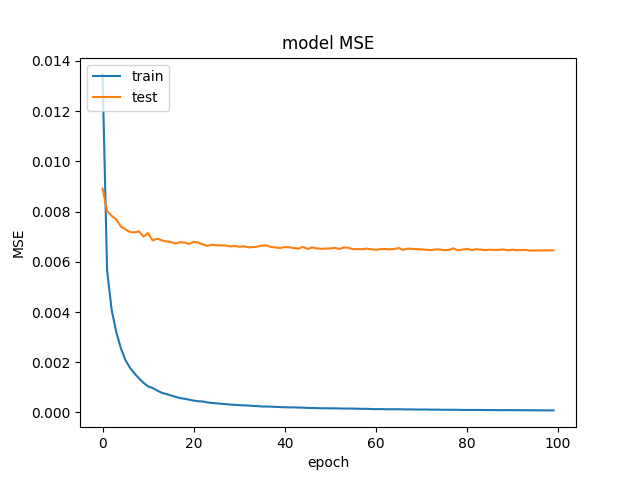
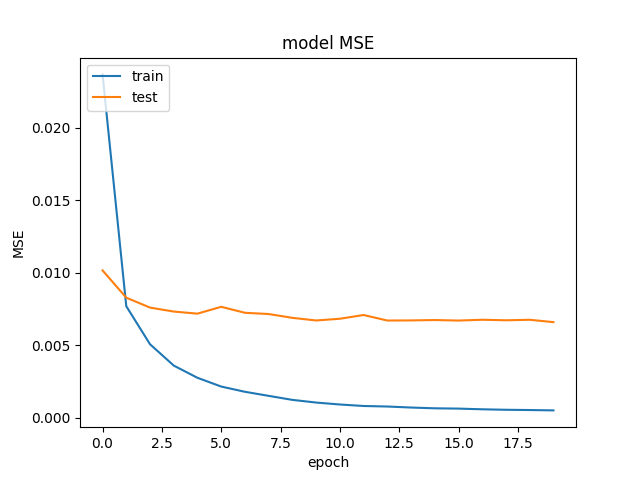
big changes

diff --git a/models/data_loader.py b/models/data_loader.py
@@ -23,12 +23,12 @@ class DataLoader:
         return lan
 
     def parse_input(self):
-        db_query = '''SELECT id, big5_openness, big5_conscientiousness, big5_extraversion, big5_agreeableness, big5_neuroticism, input_text  FROM data_personality_analiser_nlp where input_text IS NOT NULL and input_text <> '' '''
-        df = self.connector.query(db_query)
-        print('Shape of non-filtered df: ', df.shape)
-        print('Length filtering...')
-        df = df[df.input_text.progress_apply(lambda x: len(x.split()) in range(300, 100000))]
-        df['input_text'] = df['input_text'].apply(lambda text: ''.join(x for x in text if x.isprintable())) # Otherwise model can't read text
+        #db_query = '''SELECT id, big5_openness, big5_conscientiousness, big5_extraversion, big5_agreeableness, big5_neuroticism, input_text  FROM data_personality_analiser_nlp where input_text IS NOT NULL and input_text <> '' '''
+        #df = self.connector.query(db_query)
+        #print('Shape of non-filtered df: ', df.shape)
+        #print('Length filtering...')
+        #df = df[df.input_text.progress_apply(lambda x: len(x.split()) in range(300, 100000))]
+        #df['input_text'] = df['input_text'].apply(lambda text: ''.join(x for x in text if x.isprintable())) # Otherwise model can't read text
         #print('Filtering non-english...')
         #df = df[df.input_text.progress_apply(self.detect_bad).eq('en')]
         #print('Done!')
@@ -36,17 +36,18 @@ class DataLoader:
         #df.to_csv('../data/4K_5K_full_en.csv')
         #print('df saved!')
         #df = pd.read_csv('../data/300_inf_full_en.csv')
-        print('Original english filtered df shape: ', df.shape)
-        print('Now saving non english texts for further use...')
-        df_non_english = df[df.input_text.apply(self.lanmodel.is_english).ne(True)]
-        print('Non english texts saved!')
-        print('Now additional filtering...')
-        df = df[df.input_text.apply(self.lanmodel.is_english)]
-        print('Filtering finished!')
-        print('New filtered non_english df shape: ', df.shape)
-        print('Shape of the read df is: ', df.shape)
+        df = pd.read_csv('../data/15K_100K_full_en.csv')
+        #print('Original english filtered df shape: ', df.shape)
+        #print('Now saving non english texts for further use...')
+        #df_non_english = df[df.input_text.apply(self.lanmodel.is_english).ne(True)]
+        #print('Non english texts saved!')
+        #print('Now additional filtering...')
+        #df = df[df.input_text.apply(self.lanmodel.is_english)]
+        #print('Filtering finished!')
+        #print('New filtered non_english df shape: ', df.shape)
+        #print('Shape of the read df is: ', df.shape)
         #df_non_english = df[df.input_text.apply(detect).ne('en')]
-        self.insert_nonenglish(df_non_english)
+        #self.insert_nonenglish(df_non_english)
         #df['input_text'] = df['input_text'].str.lower()
         #df['input_text'] = df['input_text'].apply(lambda x: re.sub(r'https?:\/\/\S+', '', x))
         #df['input_text'] = df['input_text'].apply(lambda x: re.sub(r"www\.[a-z]?\.?(com)+|[a-z]+\.(com)", '', x))
@@ -56,7 +57,7 @@ class DataLoader:
         #df['input_text'] = df['input_text'].apply(lambda x: re.sub(r"[^a-z\s\(\-:\)\\\/\];='#]", '', x))
         #df['input_text'] = df['input_text'].apply(lambda x: re.sub(r'@mention', '', x))
 
-        y = df[['id', 'big5_openness', 'big5_conscientiousness', 'big5_extraversion', 'big5_agreeableness',
+        y = df[['big5_openness', 'big5_conscientiousness', 'big5_extraversion', 'big5_agreeableness',
                 'big5_neuroticism']].to_numpy()
     
         df = self.preprocess_df(df)

diff --git a/models/tfidf_model.py b/models/tfidf_model.py
@@ -21,38 +21,39 @@ class TfidfModel(Embedder, ABC):
     def __init__(self):
         self.name = ''
         self.model = TfidfVectorizer(lowercase=True, max_features=20000)
-        self.pca = PCA(n_components=9000)
+        #self.pca = PCA(n_components=9000)
 
     def fit(self, X):
         #print('Tokenizing training data...')
         #tokenized_text = self.tokenize_text(X)
         #print('Tokenizing training data finished!')
         print('Fitting the tfidf vectorizer...')
-        matrix = self.model.fit_transform(X).todense()
-        print('Fitting the tfidf vectorizer finished!')
-        matrix = np.squeeze(np.asarray(matrix))
+        matrix = self.model.fit_transform(X)
+        #print('Fitting the tfidf vectorizer finished!')
+        #matrix = np.squeeze(np.asarray(matrix))
         print('Dimension of original tfidf matrix: ', matrix.shape)
         
-        print('Fit transforming the PCA on the training data...')
-        self.pca.fit(matrix)
-        reduced_matrix = self.pca.transform(matrix)
+        #print('Fit transforming the PCA on the training data...')
+        #self.pca.fit(matrix)
+        #reduced_matrix = self.pca.transform(matrix)
         print('Fit transforming of the PCA training data finished!')
-        print('Dimension of reduced matrix: ', reduced_matrix.shape)
-        print('Encoder fitting completed!')
-        return reduced_matrix
+        #print('Dimension of reduced matrix: ', reduced_matrix.shape)
+        #print('Encoder fitting completed!')
+        return matrix.toarray()
+
 
     def encode(self, X):
         #print('Tokenizing test data...')
         #tokenized_text = self.tokenize_text(X)
         #print('Tokenizing test data finished!')
         print('TfIdf transforming test data...')
-        matrix = self.model.transform(X).todense()
-        print('TfIdf transform finished!')
-        matrix = np.squeeze(np.asarray(matrix))
-        print('PCA transforming test data...')
-        reduced_matrix = self.pca.transform(matrix)
-        print('PCA transformign finsihed!')
-        return reduced_matrix
+        matrix = self.model.transform(X)
+        #print('TfIdf transform finished!')
+        #matrix = np.squeeze(np.asarray(matrix))
+        #print('PCA transforming test data...')
+        #reduced_matrix = self.pca.transform(matrix)
+        #print('PCA transformign finsihed!')
+        return matrix.toarray()
 
     def load(self, path):
         print('Loading pca and tfidf models...')

diff --git a/models/neuralnet_multi.py b/models/neuralnet_multi.py
@@ -2,8 +2,7 @@ from regressor import Regressor
 from sklearn.datasets import make_regression
 from sklearn.model_selection import RepeatedKFold
 from tensorflow.keras.models import Sequential
-from tensorflow.keras.layers import Dense
-from tensorflow.keras.layers import LSTM
+from tensorflow.keras.layers import Dense, Conv1D, Flatten, MaxPooling1D
 import tensorflow.keras
 from tensorflow.keras import callbacks
 from losses import huber_loss
@@ -26,14 +25,23 @@ class NeuralNetMulti(Regressor):
         print('Fitting into the neural net...')
         n_inputs = X.shape[1]
         n_outputs = y.shape[1]
-        self.model.add(Dense(1024, input_dim=n_inputs, kernel_initializer='he_uniform', activation='relu'))
-        self.model.add(Dense(512, activation='relu'))
+        X_train = X.reshape(X.shape[0], X.shape[1], 1)
+
+        self.model.add(Conv1D(filters=32, kernel_size=8, activation='relu', input_shape=(20000, 1)))
+        self.model.add(MaxPooling1D(pool_size=2))
+        self.model.add(Conv1D(filters=16, kernel_size=4, activation='relu'))
+        self.model.add(MaxPooling1D(pool_size=2))
+        self.model.add(Conv1D(filters=8, kernel_size=4, activation='relu'))
+        self.model.add(MaxPooling1D(pool_size=2))
+        self.model.add(Flatten())
+        #self.model.add(Dense(1024, input_dim=n_inputs, kernel_initializer='he_uniform', activation='relu'))
+        #self.model.add(Dense(512, activation='relu'))
         self.model.add(Dense(256, activation='relu'))
         self.model.add(Dense(128, activation='relu'))
         self.model.add(Dense(n_outputs, activation='sigmoid'))
         self.model.summary()
         self.model.compile(loss='mse', optimizer='adam', metrics=['mse', 'mae'])
-        history = self.model.fit(X, y, verbose=1, epochs=100, validation_split=0.1)
+        history = self.model.fit(X_train, y, verbose=1, epochs=20, validation_split=0.1)
         # self.model.fit(X, y, verbose=1, epochs=1000, callbacks=[self.earlystopping])
         # MSE
         plt.plot(history.history['mse'])
@@ -56,7 +64,8 @@ class NeuralNetMulti(Regressor):
 
     def predict(self, X):
         print('Predicting...')
-        predictions = self.model.predict(X, verbose=1)
+        X_test = X.reshape(X.shape[0], X.shape[1], 1)
+        predictions = self.model.predict(X_test, verbose=1)
         print('Predicted!')
         return predictions
 

diff --git a/scripts/base_pipeline_example.py b/scripts/base_pipeline_example.py
@@ -25,12 +25,12 @@ def main():
     print('Lengths are: ', lengths(X))
     X_train, X_test, y_train, y_test = train_test_split(X, y, test_size=0.1, random_state=1)
     y_train = y_train/100
-    train_ids = y_train[:, 0]
-    test_ids = y_test[:, 0]
+    #train_ids = y_train[:, 0]
+    #test_ids = y_test[:, 0]
 
-    y_test = y_test[:, 1:]
-    y_train = y_train[:, 1:]
-    dl.connector.insert_analysis(ids=train_ids, X=X_train)
+    #y_test = y_test[:, 1:]
+    #y_train = y_train[:, 1:]
+    #dl.connector.insert_analysis(ids=train_ids, X=X_train)
 
     base_model = Basepipeline(TfidfModel, NeuralNetMulti)
     base_model.fit(X_train, y_train)
@@ -38,7 +38,7 @@ def main():
     #base_model.load('../cache/tfidf_pca_nn_full')
     y_pred = base_model.predict(X_test)
     y_pred = y_pred*100
-    dl.connector.insert_analysis(ids=test_ids, X=X_test, y_pred=y_pred)
+    #dl.connector.insert_analysis(ids=test_ids, X=X_test, y_pred=y_pred)
     ten_dist = N_distance(y_test, y_pred, 10)
     five_dist = N_distance(y_test, y_pred, 5)
     _rmse = rmse(y_test, y_pred)
